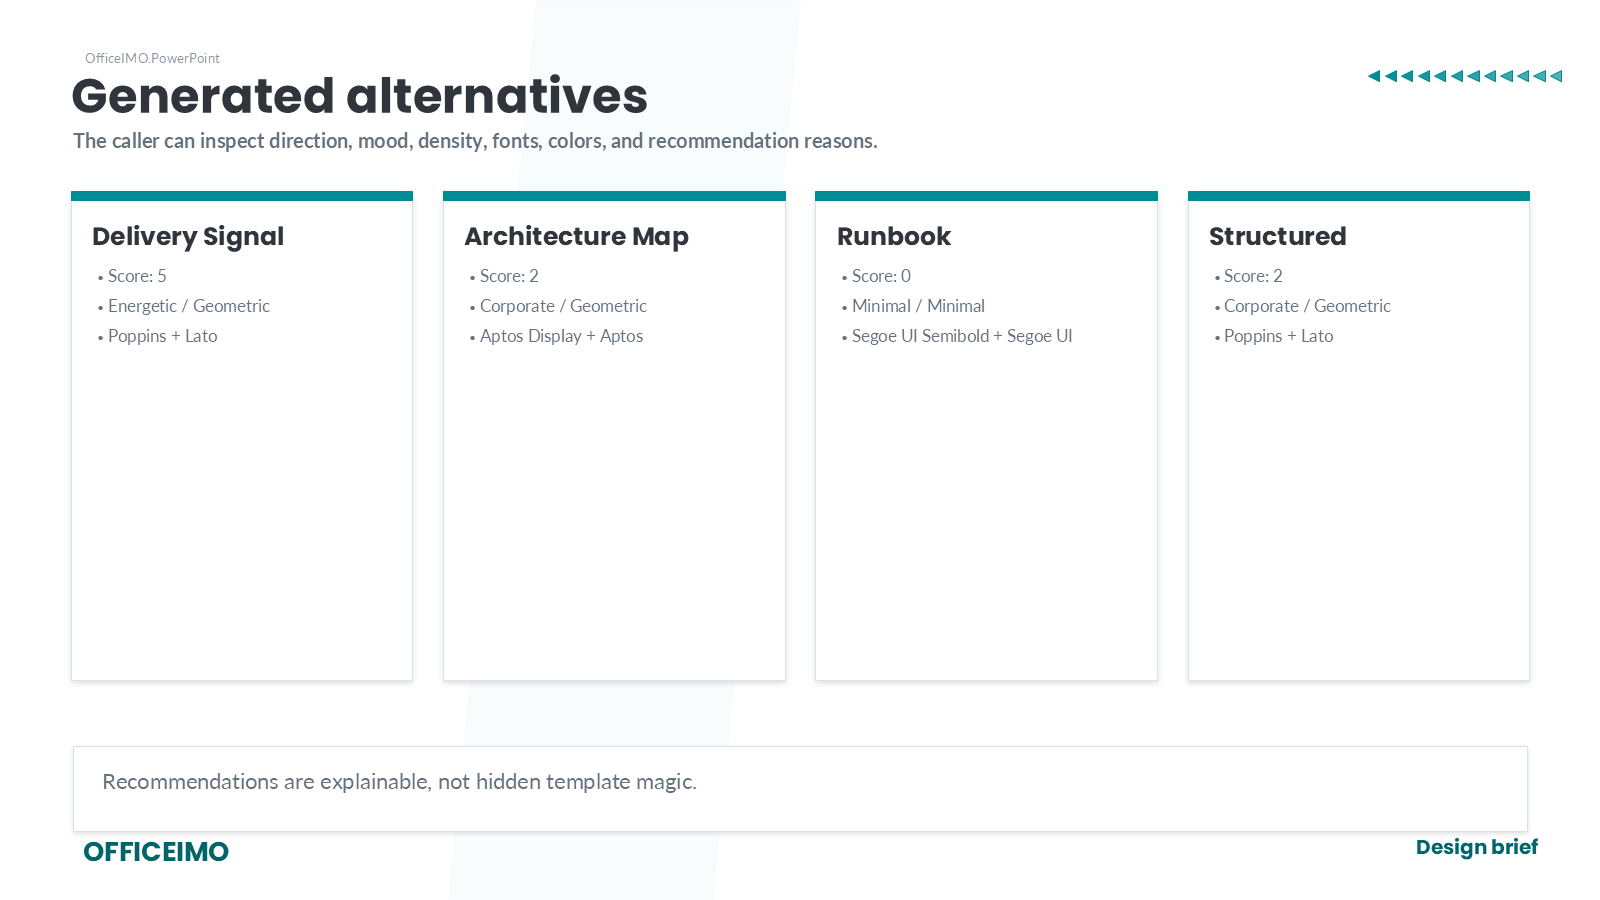
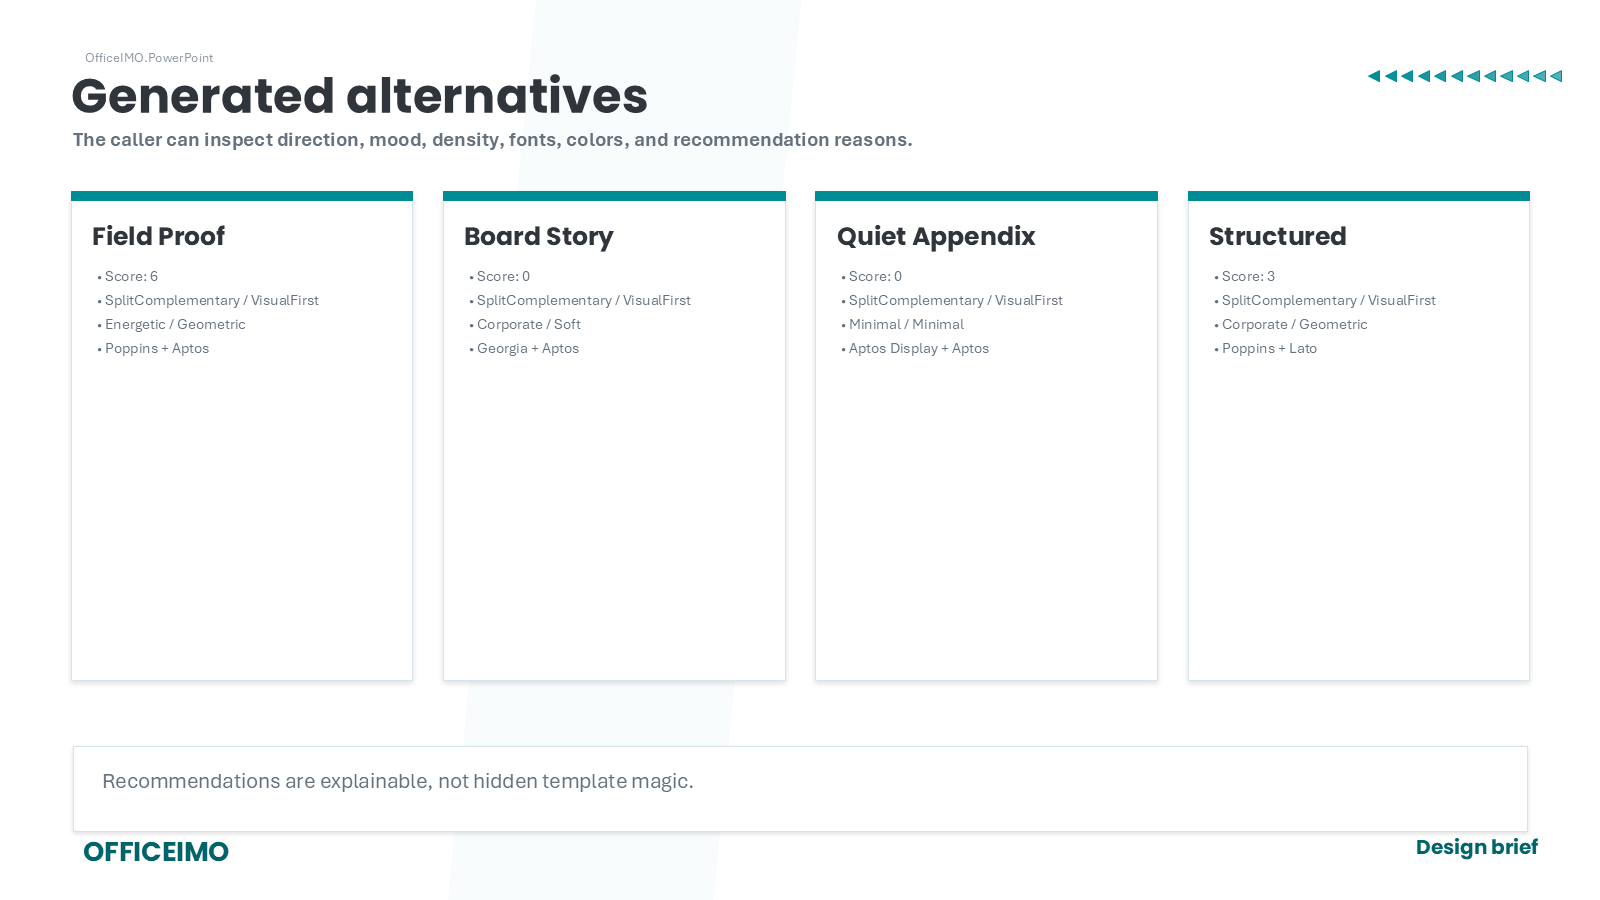
Add PowerPoint creative direction packs

diff --git a/OfficeIMO.PowerPoint/PowerPointDesignBrief.cs b/OfficeIMO.PowerPoint/PowerPointDesignBrief.cs
@@ -126,6 +126,12 @@ namespace OfficeIMO.PowerPoint {
         public PowerPointAutoLayoutStrategy? LayoutStrategy { get; private set; }
 
         /// <summary>
+        ///     Optional high-level creative pack used to configure recipe, palette, layout strategy, and ranking preferences.
+        /// </summary>
+        public PowerPointCreativeDirectionPack CreativeDirectionPack { get; private set; } =
+            PowerPointCreativeDirectionPack.Auto;
+
+        /// <summary>
         ///     Controls how far generated alternatives should move from the selected recipe or preferred direction.
         /// </summary>
         public PowerPointDesignVariety Variety { get; private set; } = PowerPointDesignVariety.Balanced;
@@ -218,6 +224,72 @@ namespace OfficeIMO.PowerPoint {
         /// </summary>
         public PowerPointDesignBrief WithLayoutStrategy(PowerPointAutoLayoutStrategy layoutStrategy) {
             LayoutStrategy = layoutStrategy;
+            return this;
+        }
+
+        /// <summary>
+        ///     Applies a curated creative starting point while preserving seed-based variation and any later explicit overrides.
+        /// </summary>
+        public PowerPointDesignBrief WithCreativeDirectionPack(PowerPointCreativeDirectionPack pack) {
+            CreativeDirectionPack = pack;
+
+            switch (pack) {
+                case PowerPointCreativeDirectionPack.Auto:
+                    return this;
+                case PowerPointCreativeDirectionPack.Boardroom:
+                    Recipe = PowerPointDesignRecipe.ExecutiveBrief;
+                    PaletteStyle = PowerPointPaletteStyle.CoolNeutral;
+                    LayoutStrategy = PowerPointAutoLayoutStrategy.ContentFirst;
+                    Variety = PowerPointDesignVariety.Balanced;
+                    SetDirectionPreferences(
+                        new[] { PowerPointDesignMood.Corporate },
+                        new[] { PowerPointSlideDensity.Balanced, PowerPointSlideDensity.Relaxed },
+                        new[] { PowerPointVisualStyle.Soft });
+                    break;
+                case PowerPointCreativeDirectionPack.FieldProof:
+                    Recipe = PowerPointDesignRecipe.ConsultingPortfolio;
+                    PaletteStyle = PowerPointPaletteStyle.SplitComplementary;
+                    LayoutStrategy = PowerPointAutoLayoutStrategy.VisualFirst;
+                    Variety = PowerPointDesignVariety.Exploratory;
+                    SetDirectionPreferences(
+                        new[] { PowerPointDesignMood.Energetic },
+                        new[] { PowerPointSlideDensity.Balanced },
+                        new[] { PowerPointVisualStyle.Geometric });
+                    break;
+                case PowerPointCreativeDirectionPack.EditorialCaseStudy:
+                    Recipe = PowerPointDesignRecipe.ConsultingPortfolio;
+                    PaletteStyle = PowerPointPaletteStyle.WarmNeutral;
+                    LayoutStrategy = PowerPointAutoLayoutStrategy.VisualFirst;
+                    Variety = PowerPointDesignVariety.Balanced;
+                    SetDirectionPreferences(
+                        new[] { PowerPointDesignMood.Corporate, PowerPointDesignMood.Editorial },
+                        new[] { PowerPointSlideDensity.Relaxed },
+                        new[] { PowerPointVisualStyle.Soft });
+                    break;
+                case PowerPointCreativeDirectionPack.TechnicalMap:
+                    Recipe = PowerPointDesignRecipe.TechnicalProposal;
+                    PaletteStyle = PowerPointPaletteStyle.Complementary;
+                    LayoutStrategy = PowerPointAutoLayoutStrategy.Compact;
+                    Variety = PowerPointDesignVariety.Exploratory;
+                    SetDirectionPreferences(
+                        new[] { PowerPointDesignMood.Corporate, PowerPointDesignMood.Energetic },
+                        new[] { PowerPointSlideDensity.Balanced, PowerPointSlideDensity.Compact },
+                        new[] { PowerPointVisualStyle.Geometric });
+                    break;
+                case PowerPointCreativeDirectionPack.QuietAppendix:
+                    Recipe = PowerPointDesignRecipe.TechnicalProposal;
+                    PaletteStyle = PowerPointPaletteStyle.Monochrome;
+                    LayoutStrategy = PowerPointAutoLayoutStrategy.ContentFirst;
+                    Variety = PowerPointDesignVariety.Focused;
+                    SetDirectionPreferences(
+                        new[] { PowerPointDesignMood.Minimal },
+                        new[] { PowerPointSlideDensity.Compact },
+                        new[] { PowerPointVisualStyle.Minimal });
+                    break;
+                default:
+                    throw new ArgumentOutOfRangeException(nameof(pack), pack, "Unknown creative direction pack.");
+            }
+
             return this;
         }
 
@@ -712,6 +784,13 @@ namespace OfficeIMO.PowerPoint {
 
             target.Clear();
             target.AddRange(values.Distinct());
+        }
+
+        private void SetDirectionPreferences(IEnumerable<PowerPointDesignMood> moods,
+            IEnumerable<PowerPointSlideDensity> densities, IEnumerable<PowerPointVisualStyle> visualStyles) {
+            ReplacePreferences(_preferredMoods, moods, nameof(moods));
+            ReplacePreferences(_preferredDensities, densities, nameof(densities));
+            ReplacePreferences(_preferredVisualStyles, visualStyles, nameof(visualStyles));
         }
 
         private sealed class PowerPointDeckPlanContentFit {

diff --git a/OfficeIMO.Tests/PowerPoint.DesignCompositions.cs b/OfficeIMO.Tests/PowerPoint.DesignCompositions.cs
@@ -857,6 +857,50 @@ namespace OfficeIMO.Tests {
         }
 
         [Fact]
+        public void DesignerDesignBrief_CanApplyCreativeDirectionPack() {
+            PowerPointDesignBrief brief = PowerPointDesignBrief
+                .FromBrand("#008C95", "brief-pack", "technical rollout proposal")
+                .WithCreativeDirectionPack(PowerPointCreativeDirectionPack.FieldProof);
+
+            IReadOnlyList<PowerPointDeckDesign> alternatives = brief.CreateAlternatives(3);
+            IReadOnlyList<PowerPointDeckDesignSummary> summaries = brief.DescribeAlternatives(1);
+            IReadOnlyList<PowerPointDeckDesignRecommendation> recommendations =
+                brief.RecommendAlternatives(2);
+
+            Assert.Equal(PowerPointCreativeDirectionPack.FieldProof, brief.CreativeDirectionPack);
+            Assert.Same(PowerPointDesignRecipe.ConsultingPortfolio, brief.Recipe);
+            Assert.Equal(PowerPointPaletteStyle.SplitComplementary, brief.PaletteStyle);
+            Assert.Equal(PowerPointAutoLayoutStrategy.VisualFirst, brief.LayoutStrategy);
+            Assert.Equal(PowerPointDesignVariety.Exploratory, brief.Variety);
+            Assert.Equal("Field Proof", alternatives[0].Direction.Name);
+            Assert.Equal("Board Story", alternatives[1].Direction.Name);
+            Assert.Equal(PowerPointAutoLayoutStrategy.VisualFirst, alternatives[0].BaseIntent.LayoutStrategy);
+            Assert.Equal(PowerPointPaletteStyle.SplitComplementary, alternatives[0].Theme.PaletteStyle);
+            Assert.Equal(PowerPointDesignMood.Energetic, summaries[0].Mood);
+            Assert.Equal(PowerPointVisualStyle.Geometric, summaries[0].VisualStyle);
+            Assert.True(recommendations[0].MatchesPreferences);
+            Assert.Contains("Matches preferred mood: Energetic.", recommendations[0].Reasons);
+        }
+
+        [Fact]
+        public void DesignerDesignBrief_CreativeDirectionPacksKeepAlternativesDistinct() {
+            PowerPointDesignBrief brief = PowerPointDesignBrief
+                .FromBrand("#008C95", "brief-pack-distinct", "technical rollout proposal")
+                .WithCreativeDirectionPack(PowerPointCreativeDirectionPack.TechnicalMap);
+
+            IReadOnlyList<PowerPointDeckDesign> alternatives = brief.CreateAlternatives(3);
+
+            Assert.Equal(PowerPointCreativeDirectionPack.TechnicalMap, brief.CreativeDirectionPack);
+            Assert.Equal(PowerPointPaletteStyle.Complementary, brief.PaletteStyle);
+            Assert.Equal(PowerPointAutoLayoutStrategy.Compact, alternatives[0].BaseIntent.LayoutStrategy);
+            Assert.Equal("Architecture Map", alternatives[0].Direction.Name);
+            Assert.Equal("Delivery Signal", alternatives[1].Direction.Name);
+            Assert.NotEqual(alternatives[0].Seed, alternatives[1].Seed);
+            Assert.NotEqual(alternatives[0].Theme.Accent2Color, alternatives[1].Theme.Accent2Color);
+            Assert.NotEqual(alternatives[1].Theme.Accent2Color, alternatives[2].Theme.Accent2Color);
+        }
+
+        [Fact]
         public void DesignerDesignBrief_VisualLayoutStrategyPrefersHeroVariants() {
             PowerPointDesignBrief brief = PowerPointDesignBrief.FromBrand("#008C95", "client-demo")
                 .WithLayoutStrategy(PowerPointAutoLayoutStrategy.VisualFirst);

diff --git a/OfficeIMO.Examples/PowerPoint/DesignBriefRecommendationsPowerPoint.cs b/OfficeIMO.Examples/PowerPoint/DesignBriefRecommendationsPowerPoint.cs
@@ -18,11 +18,8 @@ namespace OfficeIMO.Examples.PowerPoint {
                 .FromBrand("#008C95", "design-brief-recommendations", "technical rollout proposal")
                 .WithIdentity("Client Theme", eyebrow: "OfficeIMO.PowerPoint", footerLeft: "OFFICEIMO",
                     footerRight: "Design brief")
-                .WithPalette(secondaryAccentColor: "#6D5BD0", tertiaryAccentColor: "#0E7490",
-                    warmAccentColor: "#FFB000", surfaceColor: "#F6FAFC", panelBorderColor: "#D5E3EA")
-                .WithVariety(PowerPointDesignVariety.Exploratory)
-                .WithPreferredMoods(PowerPointDesignMood.Energetic, PowerPointDesignMood.Editorial)
-                .WithPreferredVisualStyles(PowerPointVisualStyle.Geometric, PowerPointVisualStyle.Soft);
+                .WithCreativeDirectionPack(PowerPointCreativeDirectionPack.FieldProof)
+                .WithPalette(surfaceColor: "#F6FAFC", panelBorderColor: "#D5E3EA");
 
             IReadOnlyList<PowerPointDeckDesignRecommendation> recommendations = brief.RecommendAlternatives(4);
             PowerPointDeckDesignRecommendation selected = recommendations
@@ -45,6 +42,7 @@ namespace OfficeIMO.Examples.PowerPoint {
                     recommendation.Design.DirectionName,
                     new[] {
                         $"Score: {recommendation.PreferenceScore}",
+                        $"{recommendation.Design.PaletteStyle} / {recommendation.Design.LayoutStrategy}",
                         $"{recommendation.Design.Mood} / {recommendation.Design.VisualStyle}",
                         $"{recommendation.Design.HeadingFontName} + {recommendation.Design.BodyFontName}"
                     },

diff --git a/OfficeIMO.PowerPoint/PowerPointDesignModels.cs b/OfficeIMO.PowerPoint/PowerPointDesignModels.cs
@@ -74,6 +74,24 @@ namespace OfficeIMO.PowerPoint {
     }
 
     /// <summary>
+    ///     Higher-level creative starting points that combine recipe, palette, layout, and ranking preferences.
+    /// </summary>
+    public enum PowerPointCreativeDirectionPack {
+        /// <summary>Let the purpose text and explicit brief settings choose the design direction.</summary>
+        Auto,
+        /// <summary>Restrained, board-ready hierarchy for executive and decision decks.</summary>
+        Boardroom,
+        /// <summary>Visual proof and stronger contrast for case studies, portfolios, and service stories.</summary>
+        FieldProof,
+        /// <summary>Editorial spacing and softer surfaces for narrative-heavy customer stories.</summary>
+        EditorialCaseStudy,
+        /// <summary>Compact geometric structure for architecture, rollout, and operational decks.</summary>
+        TechnicalMap,
+        /// <summary>Quiet, dense appendix treatment for supporting detail and reference slides.</summary>
+        QuietAppendix
+    }
+
+    /// <summary>
     ///     Controls how Auto slide variants balance content fit against visual variety.
     /// </summary>
     public enum PowerPointAutoLayoutStrategy {

diff --git a/Website/content/docs/powerpoint/designer/index.md b/Website/content/docs/powerpoint/designer/index.md
@@ -12,7 +12,7 @@ Use this when a generated deck should feel designed without forcing every caller
 
 ## Design brief recommendations
 
-A `PowerPointDesignBrief` packages brand color, stable seed, purpose, identity, palette preferences, and creative preferences. Callers can inspect alternatives before choosing one.
+A `PowerPointDesignBrief` packages brand color, stable seed, purpose, identity, and creative direction. Start with a pack when you want a strong direction quickly, then override individual palette or layout knobs only where needed. Callers can inspect alternatives before choosing one.
 
 ![PowerPoint design brief alternatives](/images/powerpoint/examples/design-brief-alternatives.png)
 
@@ -21,12 +21,8 @@ PowerPointDesignBrief brief = PowerPointDesignBrief
     .FromBrand("#008C95", "design-brief-recommendations", "technical rollout proposal")
     .WithIdentity("Client Theme", eyebrow: "OfficeIMO.PowerPoint",
         footerLeft: "OFFICEIMO", footerRight: "Design brief")
-    .WithPaletteStyle(PowerPointPaletteStyle.SplitComplementary)
-    .WithPalette(secondaryAccentColor: "#6D5BD0", warmAccentColor: "#FFB000")
-    .WithLayoutStrategy(PowerPointAutoLayoutStrategy.ContentFirst)
-    .WithVariety(PowerPointDesignVariety.Exploratory)
-    .WithPreferredMoods(PowerPointDesignMood.Energetic, PowerPointDesignMood.Editorial)
-    .WithPreferredVisualStyles(PowerPointVisualStyle.Geometric, PowerPointVisualStyle.Soft);
+    .WithCreativeDirectionPack(PowerPointCreativeDirectionPack.FieldProof)
+    .WithPalette(surfaceColor: "#F6FAFC", panelBorderColor: "#D5E3EA");
 
 var recommendations = brief.RecommendAlternatives(4);
 var selected = recommendations
@@ -41,6 +37,8 @@ PowerPointDeckComposer deck = presentation.UseDesigner(brief, selected.Design.In
 ```
 
 The recommendation object keeps the choice explainable: score, direction, mood, visual style, fonts, palette, and human-readable reasons are all available before slides are rendered.
+
+Built-in packs include `Boardroom`, `FieldProof`, `EditorialCaseStudy`, `TechnicalMap`, and `QuietAppendix`. They combine recipe, palette style, layout strategy, variety, and ranking preferences without freezing exact slide coordinates.
 
 `WithLayoutStrategy(...)` lets a brief steer `Auto` slide variants without turning the deck into a fixed template.
 Use `ContentFirst` for content-fit defaults, `DesignFirst` for more seeded variation, `Compact` for denser business decks,

diff --git a/OfficeIMO.PowerPoint/README.md b/OfficeIMO.PowerPoint/README.md
@@ -96,12 +96,8 @@ var quickDeck = ppt.UseDesigner("#008C95", "client-demo", "technical rollout pro
 var brief = PowerPointDesignBrief
     .FromBrand("#008C95", "client-demo", "technical rollout proposal")
     .WithIdentity("Client Theme", footerLeft: "CLIENT", footerRight: "Service deck")
-    .WithPaletteStyle(PowerPointPaletteStyle.SplitComplementary)
-    .WithPalette(secondaryAccentColor: "#6D5BD0", warmAccentColor: "#FFB000")
-    .WithLayoutStrategy(PowerPointAutoLayoutStrategy.ContentFirst)
-    .WithVariety(PowerPointDesignVariety.Exploratory)
-    .WithPreferredMoods(PowerPointDesignMood.Energetic)
-    .WithPreferredVisualStyles(PowerPointVisualStyle.Geometric);
+    .WithCreativeDirectionPack(PowerPointCreativeDirectionPack.FieldProof)
+    .WithPalette(surfaceColor: "#F6FAFC", panelBorderColor: "#D5E3EA");
 var choices = brief.DescribeAlternatives(3); // direction, mood, fonts, and palette preview
 var recommendations = brief.RecommendAlternatives(3); // preference score and reasons before choosing
 var briefDeck = ppt.UseDesigner(brief, alternativeIndex: 1);
